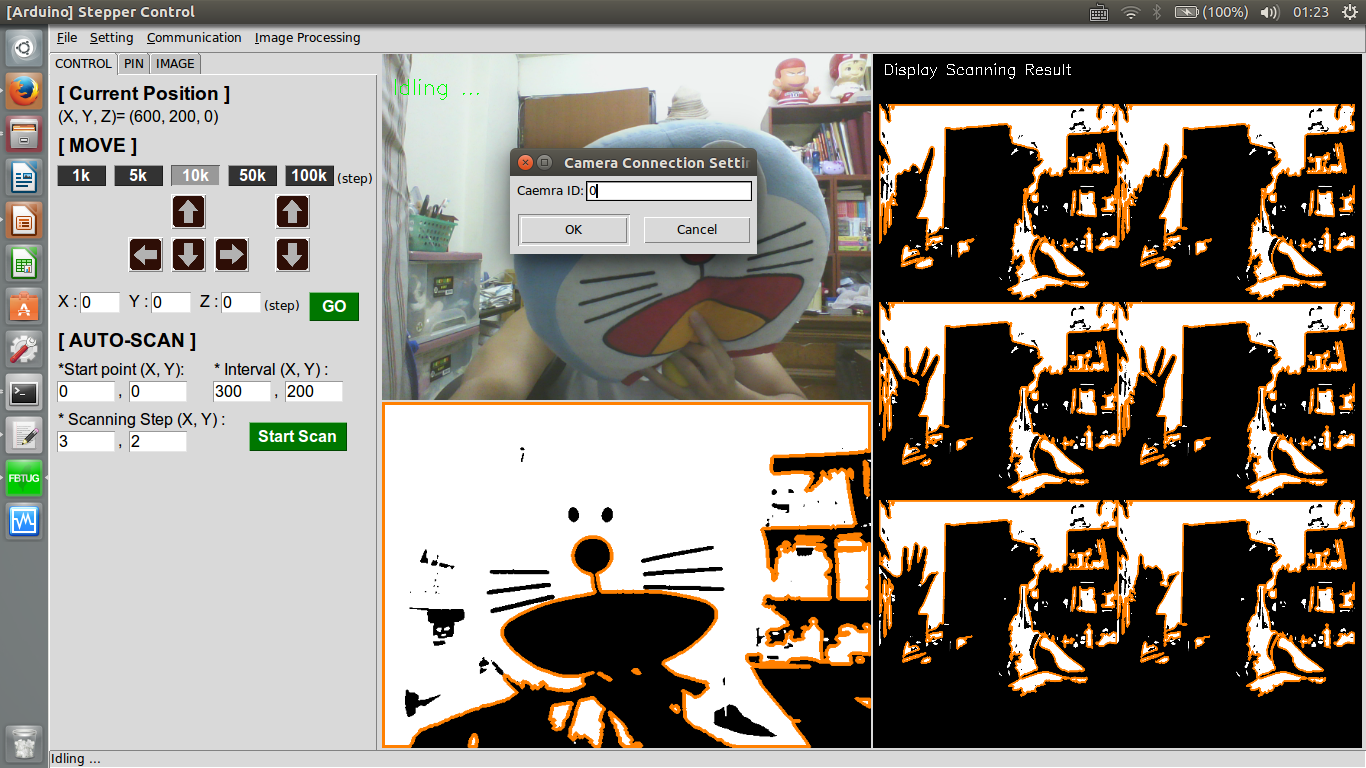
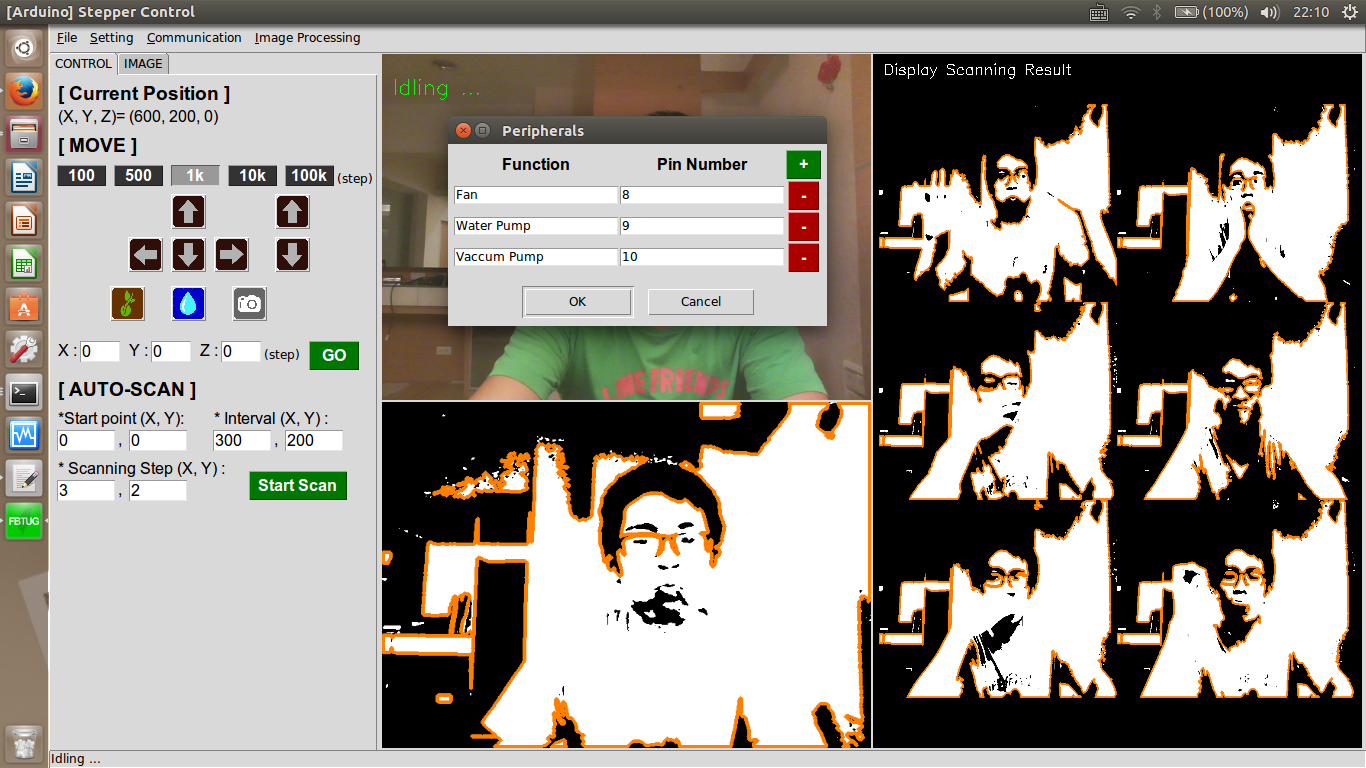
keybinding

diff --git a/gui_main.py b/gui_main.py
@@ -5,6 +5,7 @@ import json
 import random
 import math
 import time
+import types
 #import Tkinter
 from Tkinter import *
 import ttk
@@ -207,32 +208,32 @@ class App:
         # Move 1 interval at specific Axis
         # ==================================================
         photo_up= self.IconResize(self.saveParaPath+'img_Up.png')
-        self.btn_MoveUp= Tkinter.Button(self.tab_control,image= photo_up, cursor= 'hand2', command= self.btn_MoveUp_click)
+        self.btn_MoveUp= Tkinter.Button(self.tab_control,image= photo_up, cursor= 'hand2', command= lambda: self.btn_MoveAmount_click('Up'))
         self.btn_MoveUp.image= photo_up
         self.btn_MoveUp.place(x= self.rdbtn_MvAmount_10.winfo_x()+int(self.rdbtn_MvAmount_10.winfo_reqwidth()*0), y=self.rdbtn_MvAmount_1.winfo_y()+ self.rdbtn_MvAmount_1.winfo_reqheight()+ self.interval_y)
         self.root.update()
         photo_down= self.IconResize(self.saveParaPath+'img_Down.png')
-        self.btn_MoveDown= Tkinter.Button(self.tab_control,image= photo_down, cursor= 'hand2', command= self.btn_MoveDown_click)
+        self.btn_MoveDown= Tkinter.Button(self.tab_control,image= photo_down, cursor= 'hand2', command= lambda: self.btn_MoveAmount_click('Down'))
         self.btn_MoveDown.image= photo_down
         self.btn_MoveDown.place(x= self.btn_MoveUp.winfo_x(), y=self.btn_MoveUp.winfo_y()+ self.btn_MoveUp.winfo_reqheight()+ self.interval_y)
         self.root.update()
         photo_left= self.IconResize(self.saveParaPath+'img_Left.png')
-        self.btn_MoveLeft= Tkinter.Button(self.tab_control,image= photo_left, cursor= 'hand2', command= self.btn_MoveLeft_click)
+        self.btn_MoveLeft= Tkinter.Button(self.tab_control,image= photo_left, cursor= 'hand2', command= lambda: self.btn_MoveAmount_click('Left'))
         self.btn_MoveLeft.image= photo_left
         self.btn_MoveLeft.place(x= self.btn_MoveDown.winfo_x()- self.btn_MoveDown.winfo_width()- self.interval_x, y=self.btn_MoveDown.winfo_y())
         self.root.update()
         photo_right= self.IconResize(self.saveParaPath+'img_Right.png')
-        self.btn_MoveRight= Tkinter.Button(self.tab_control,image= photo_right, cursor= 'hand2', command= self.btn_MoveRight_click)
+        self.btn_MoveRight= Tkinter.Button(self.tab_control,image= photo_right, cursor= 'hand2', command= lambda: self.btn_MoveAmount_click('Right'))
         self.btn_MoveRight.image= photo_right
         self.btn_MoveRight.place(x= self.btn_MoveDown.winfo_x()+ self.btn_MoveDown.winfo_width()+ self.interval_x, y=self.btn_MoveDown.winfo_y())
         self.root.update()
 
 
-        self.btn_MoveZUp= Tkinter.Button(self.tab_control,image= photo_up, cursor= 'hand2', command= self.btn_MoveZUp_click)
+        self.btn_MoveZUp= Tkinter.Button(self.tab_control,image= photo_up, cursor= 'hand2', command= lambda: self.btn_MoveAmountZaxis_click('Up'))
         self.btn_MoveZUp.image= photo_up
         self.btn_MoveZUp.place(x= self.btn_MoveRight.winfo_x()+ self.btn_MoveRight.winfo_reqwidth()+ self.interval_x*4, y=self.btn_MoveUp.winfo_y())
         self.root.update()
-        self.btn_MoveZDown= Tkinter.Button(self.tab_control,image= photo_down, cursor= 'hand2', command= self.btn_MoveZDown_click)
+        self.btn_MoveZDown= Tkinter.Button(self.tab_control,image= photo_down, cursor= 'hand2', command= lambda: self.btn_MoveAmountZaxis_click('Down'))
         self.btn_MoveZDown.image= photo_down
         self.btn_MoveZDown.place(x= self.btn_MoveZUp.winfo_x(), y=self.btn_MoveDown.winfo_y())
         self.root.update()
@@ -288,6 +289,7 @@ class App:
         self.root.update()
         self.btn_MoveTo= Tkinter.Button(self.tab_control, text= 'GO', command= self.btn_MoveTo_click,font= myfont12_Bold, bg= self.bgGreen, fg= 'white', activebackground= self.bgGreen_active, activeforeground= 'white')
         self.btn_MoveTo.place(x= self.lbl_posUnit.winfo_x()+ self.lbl_posUnit.winfo_reqwidth()+ self.interval_x, y=self.lbl_Ypos.winfo_y())
+        self.btn_MoveTo.focus_set()
         self.root.update()
 
         # ==================================================
@@ -431,6 +433,25 @@ class App:
         self.lbl_CurrPos.after(5, self.UI_callback)
         self.statuslabel.after(5, self.check_status)
         self.panel_mergeframe.bind('<Button-1>',self.mouse_LeftClick)
+        self.root.bind('<F1>',self.rdbtn_click)
+        self.root.bind('<F2>',self.rdbtn_click)
+        self.root.bind('<F3>',self.rdbtn_click)
+        self.root.bind('<F4>',self.rdbtn_click)
+        self.root.bind('<F5>',self.rdbtn_click)
+        #self.root.bind('<Up>',self.btn_MoveUp_click)
+        self.root.bind('<Up>',self.btn_MoveAmount_click)
+        self.root.bind('<Down>',self.btn_MoveAmount_click)
+        self.root.bind('<Left>',self.btn_MoveAmount_click)
+        self.root.bind('<Right>',self.btn_MoveAmount_click)
+        self.root.bind('<Control-Up>',self.btn_MoveAmountZaxis_click)
+        self.root.bind('<Control-Down>',self.btn_MoveAmountZaxis_click)
+        '''
+        self.root.bind('<Down>',self.btn_MoveDown_click)
+        self.root.bind('<Left>',self.btn_MoveLeft_click)
+        self.root.bind('<Right>',self.btn_MoveRight_click)
+        self.root.bind('<Control-Up>',self.btn_MoveZUp_click)
+        self.root.bind('<Control-Down>',self.btn_MoveZDown_click)
+        '''
         # ====== Override CLOSE function ==============
         self.root.protocol('WM_DELETE_WINDOW',self.on_exit)
         # ==================================================
@@ -607,7 +628,8 @@ class App:
         #Var= PeripheralSetting(self.root, [('Fan',8),('Water Pump',9)])
         #print '>>> ',self.Peripheral_para
         Var= PeripheralSetting(self.root, self.Peripheral_para)
-        self.Peripheral_para= Var.result
+        if Var.result is not None:
+            self.Peripheral_para= Var.result
         print '*** Return Value: ',Var.result
 
     def set_Motor(self):
@@ -668,10 +690,53 @@ class App:
         self.panel_mergeframe.configure(image = result)
         self.panel_mergeframe.image = result
 
-    def rdbtn_click(self):
+    def rdbtn_click(self, event= None):
+        if event is not None:
+            if event.keysym == 'F1':
+                self.rdbtn_MvAmount_1.select()
+            elif event.keysym == 'F2':
+                self.rdbtn_MvAmount_5.select()
+            elif event.keysym == 'F3':
+                self.rdbtn_MvAmount_10.select()
+            elif event.keysym == 'F4':
+                self.rdbtn_MvAmount_50.select()
+            elif event.keysym == 'F5':
+                self.rdbtn_MvAmount_100.select()
         self.Move_interval= self.MvAmount.get()
         print 'rdVal',self.Move_interval
 
+    def btn_MoveAmount_click(self, event= None):
+        if type(event) is types.StringType:
+            move_type= event 
+        else:
+            print'event.keysym ', event.keysym
+            print 'event.keycode', event.keycode
+            move_type= event.keysym
+            print 'Test ',move_type is 'Up'
+
+        tmp_x, tmp_y, tmp_z= self.ArdMntr.get_CurPosition()
+        if move_type == 'Up':
+            self.ArdMntr.move_Coord(tmp_x+ self.Move_interval*self.Move_intervalUnit, tmp_y, tmp_z)
+        elif move_type == 'Down':
+            self.ArdMntr.move_Coord(tmp_x- self.Move_interval*self.Move_intervalUnit, tmp_y, tmp_z)
+        elif move_type == 'Left':
+            self.ArdMntr.move_Coord(tmp_x, tmp_y-self.Move_interval*self.Move_intervalUnit, tmp_z)
+        elif move_type == 'Right':
+            self.ArdMntr.move_Coord(tmp_x, tmp_y+self.Move_interval*self.Move_intervalUnit, tmp_z)
+
+    def btn_MoveAmountZaxis_click(self, event= None):
+        if type(event) is types.StringType:
+            move_type= event 
+        else:
+            move_type= event.keysym
+        
+        tmp_x, tmp_y, tmp_z= self.ArdMntr.get_CurPosition()
+        if move_type == 'Up':
+            self.ArdMntr.move_Coord(tmp_x, tmp_y, tmp_z+ self.Move_interval*self.Move_intervalUnit)
+        elif move_type == 'Down':
+            self.ArdMntr.move_Coord(tmp_x, tmp_y, tmp_z- self.Move_interval*self.Move_intervalUnit)
+
+    '''
     def btn_MoveUp_click(self):
         if self.ArdMntr.connect:
             tmp_x, tmp_y, tmp_z= self.ArdMntr.get_CurPosition()
@@ -688,14 +753,15 @@ class App:
         if self.ArdMntr.connect:
             tmp_x, tmp_y, tmp_z= self.ArdMntr.get_CurPosition()
             self.ArdMntr.move_Coord(tmp_x, tmp_y- self.Move_interval*self.Move_intervalUnit, tmp_z)
-    def btn_MoveZUp_click(self):
+    def btn_MoveZUp_click(self, event=None):
         if self.ArdMntr.connect:
             tmp_x, tmp_y, tmp_z= self.ArdMntr.get_CurPosition()
             self.ArdMntr.move_Coord(tmp_x, tmp_y, tmp_z+ self.Move_interval*self.Move_intervalUnit)
-    def btn_MoveZDown_click(self):
+    def btn_MoveZDown_click(self, event=None):
         if self.ArdMntr.connect:
             tmp_x, tmp_y, tmp_z= self.ArdMntr.get_CurPosition()
             self.ArdMntr.move_Coord(tmp_x, tmp_y, tmp_z- self.Move_interval*self.Move_intervalUnit)
+    '''
     def btn_Seed_click(self):
         if self.ArdMntr.connect:
             print 'Seeding... '
@@ -817,7 +883,8 @@ class App:
                             self.saveScanning= '{0}_{1}'.format(tmp_X, tmp_Y)
                             frame= self.CamMntr.get_frame()
                             self.saveImg_function(frame, self.savePath+'Scanning/','Raw_'+self.saveScanning)
-                            result= self.imageProcessor.get_contour(frame, True, self.savePath+'Scanning/', 'Detect_'+self.saveScanning,1)
+                            #result= self.imageProcessor.get_contour(frame, True, self.savePath+'Scanning/', 'Detect_'+self.saveScanning,1)
+                            result= frame.copy()
                             self.display_panel_singleframe(result)
                             #self.display_panel_mergeframe(result, step_X, step_Y)
                             #self.display_panel_mergeframe(result, step_Y, step_X)

diff --git a/dialog_PeripheralSetting.py b/dialog_PeripheralSetting.py
@@ -14,7 +14,7 @@ class PeripheralSetting(tkSimpleDialog.Dialog):
         self.__myfont10 = tkFont.Font(family=strFont, size=10)
         self.__myfont10_Bold = tkFont.Font(family=strFont, size=10, weight= tkFont.BOLD)
         self.__PinList= arg_PinList
-        self.__MaxRow= 5
+        self.__MaxRow= 7
         self.__CurrentRow= len(arg_PinList)
         self.__CurGridRow= self.__CurrentRow
         self.__NumberList= range(0, self.__MaxRow+1)
@@ -86,8 +86,10 @@ class PeripheralSetting(tkSimpleDialog.Dialog):
         gridInfo= self.__entries_Func[arg_index].grid_info()
         #print gridInfo
         print 'Clear Grid Row', gridInfo['row']
-        '''
         #'''
+        #'''
+        self.__entries_Func[arg_index].delete(0, 'end')
+        self.__entries_PinNumb[arg_index].delete(0, 'end')
         self.__entries_Func[arg_index].grid_forget()
         self.__entries_PinNumb[arg_index].grid_forget()
         self.__btns_clear[arg_index].grid_forget()
@@ -96,8 +98,8 @@ class PeripheralSetting(tkSimpleDialog.Dialog):
         self.__entries_PinNumb[arg_index].grid_remove()
         self.__btns_clear[arg_index].grid_remove()
         #'''
-        tmp= self.__NumberList[arg_index]
-        del self.__NumberList[arg_index]
+        tmp= self.__NumberList[clear_row]
+        del self.__NumberList[clear_row]
         self.__NumberList.append(tmp)
         self.__CurrentRow= self.__CurrentRow-1
         #print '__CurrentRow:', self.__CurrentRow
@@ -107,25 +109,29 @@ class PeripheralSetting(tkSimpleDialog.Dialog):
         print '============= ADD ============'
         print '### Current Row', self.__CurrentRow
         print 'NumberLIst:', self.__NumberList
-        '''
+        for i in range(1,len(self.__entries_Func)):
+            tmp= self.__NumberList[i]
+            gridInfo= self.__entries_Func[tmp].grid_info()
+            if len(gridInfo)!=0:
+                print 'Row ',str(i),' Entries List[', str(tmp),']: ', self.__entries_Func[tmp].grid_info()['row']
+            else:
+                print 'Row ',str(i),' empty'
+        #'''
         if self.__CurrentRow < self.__MaxRow:
             self.__CurrentRow= self.__CurrentRow+1
-            #self.__CurGridRow= self.__CurGridRow+1
-            self.__CurGridRow= self.__CurrentRow
+            self.__CurGridRow= self.__CurGridRow+1
+            #self.__CurGridRow= self.__CurrentRow
             add_index= self.__NumberList[self.__CurrentRow]
             '''
             print 'Added Row:', self.__CurrentRow
             print 'add_index (NumberList[{0}]): {1}'.format(self.__CurrentRow,add_index)
             print 'Grid Row:', self.__CurGridRow
-            '''
-            #self.__entries_Func[add_index].grid()
+            #'''
             self.__entries_Func[add_index].grid(row=self.__CurGridRow, column=0)
-            self.__entries_Func[add_index].delete(0, 'end')
-            #self.__entries_PinNumb[add_index].grid()
+            #self.__entries_Func[add_index].delete(0, 'end')
             self.__entries_PinNumb[add_index].grid(row=self.__CurGridRow, column=1)
-            #self.__entries_Func[add_index].insert(Tkinter.END, '{0}'.format(add_index))
-            self.__entries_PinNumb[add_index].delete(0, 'end')
+            #self.__entries_PinNumb[add_index].delete(0, 'end')
             self.__btns_clear[add_index].grid(row=self.__CurGridRow, column=2)
-            #self.__btns_clear[add_index].grid()
+            #print 'Row ',str(self.__CurrentRow),' Entries List[', str(add_index),']: ', self.__entries_Func[add_index].grid_info()['row']
         elif self.__CurrentRow== self.__MaxRow:
             print 'Max of Row is ', self.__MaxRow
